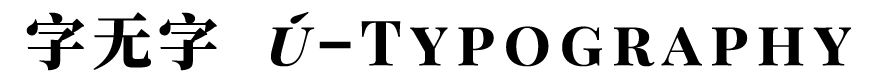
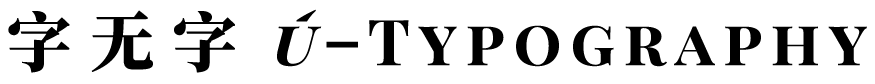
修改

Changed region(s): [[0.3086, 0.2381, 1.0, 0.8095], [0.0, 0.119, 0.2777, 0.8571], [0.3086, 0.119, 0.3703, 0.2857]]

diff --git a/styles/style.css b/styles/style.css
@@ -178,6 +178,7 @@
 	--colour-button: rgb(207, 193, 172);
 	--colour-sidenote-mark: rgb(195, 67, 56);
 	--colour-shadow: rgb(216, 208, 197);
+	--colour-line-dark:#747474;
 	--colour-dark-text: rgb(46, 46, 46);
 	--font-hei: "HEI", "Noto Sans SC", sans-serif;
 	--font-hei-biaodian: "HEI-BiaoDian", "Noto Sans SC";
@@ -230,10 +231,10 @@ html {
 	position: fixed;
 	top: 0;
 	left: 0;
-	background-color: rgba(255, 255, 255, 1);
-	/* background-color: var(--colour-paper); */
+	/* background-color: rgba(255, 255, 255, 1); */
+	background-color: var(--colour-paper);
 	/* box-shadow: 0 0 10px rgb(222, 216, 207); */
-	border-right: 1px solid #747474;
+	border-right: 1px solid var(--colour-line-dark);
 }
 #backToHomePage {
 	display: block;
@@ -247,7 +248,7 @@ html {
 	background: transparent;
 	transition: all 200ms ease-in-out;
 }
-#backToHomePage:hover {
+/* #backToHomePage:hover {
 	background: var(--colour-bar-hover);
 	transition: all 200ms ease-in-out;
 }
@@ -285,21 +286,21 @@ html {
 		var(--colour-link-active-background),
 		var(--colour-link-active-background)
 	);
-}
+} */
 #logo {
-	width: 35px;
+	width: 32px;
 	position: relative;
 	top: 26px;
-	left: 12px;
+	left: 14px;
 	transform-origin: top center;
 }
-#halfBar {
+/* #halfBar {
 	width: 100%;
 	height: 50%;
 }
 #halfBar:hover #logo {
 	animation: logoHover 500ms ease-in-out;
-}
+} */
 
 #backToHomePage:active #logo {
 	transform: scale(95%);
@@ -1230,8 +1231,8 @@ h-hws[hidden] {
 		/* box-shadow: 0 0 10px var(--colour-shadow); */
 
 		/* background-color: rgba(255, 255, 255, 0.9); */
-		border-right: 0px solid #747474;
-		border-bottom: 1px solid #747474;
+		border-right: 0px solid var(--colour-line-dark);
+		border-bottom: 1px solid var(--colour-line-dark);
 		/* backdrop-filter: blur(5px); */
 	}
 	#backToHomePage {
@@ -1257,6 +1258,7 @@ h-hws[hidden] {
 		width: auto;
 		height: 32px;
 		top: 14px;
+		left: 18px;
 	}
 	#halfBar {
 		width: 50%;
@@ -1387,8 +1389,8 @@ h-hws[hidden] {
 		/* background-color: var(--colour-paper);
 		box-shadow: 0 0 8px var(--colour-shadow); */
 		/* box-shadow: 0 0 10px var(--colour-shadow); */
-		border-right: 0px solid #747474;
-		border-bottom: 1px solid #747474;
+		border-right: 0px solid var(--colour-line-dark);
+		border-bottom: 1px solid var(--colour-line-dark);
 	}
 	#backToHomePage {
 		height: 60px;
@@ -1413,6 +1415,7 @@ h-hws[hidden] {
 		width: auto;
 		height: 32px;
 		top: 14px;
+		left: 18px;
 	}
 	#halfBar {
 		width: 50%;

diff --git a/articles/Lorem ipsum.html b/articles/Lorem ipsum.html
@@ -45,14 +45,14 @@
     <div id="whole">
 
         <div id="bar">
-            <div id="halfBar">
+            <!-- <div id="halfBar"> -->
             <a href="../index.html" id="backToHomePage">
                 <picture>
                     <source srcset="../images/字无字_横.png" media="(max-width: 1040px)">
                     <img id="logo" src="../images/字无字_竖.png" alt="“字无字”的标志｜logo of ú–typography">
                 </picture>
             </a>
-        </div>
+        <!-- </div> -->
 
             <div id="changeTypeMenu-Button"><svg id="changeTypeMenu-ButtonSVG" xmlns="http://www.w3.org/2000/svg" viewBox="0 0 6 30">
                     <g id="changeTypeMenu-ButtonSVGgraphic">
